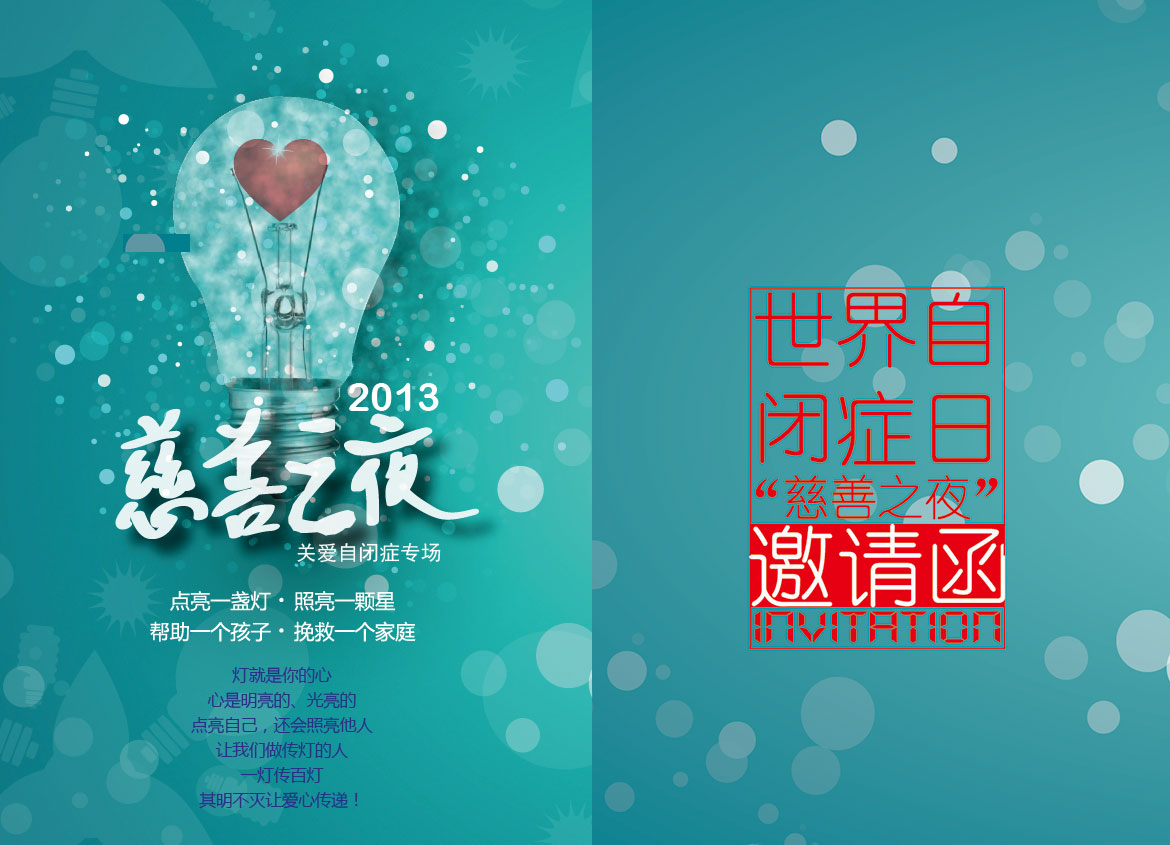
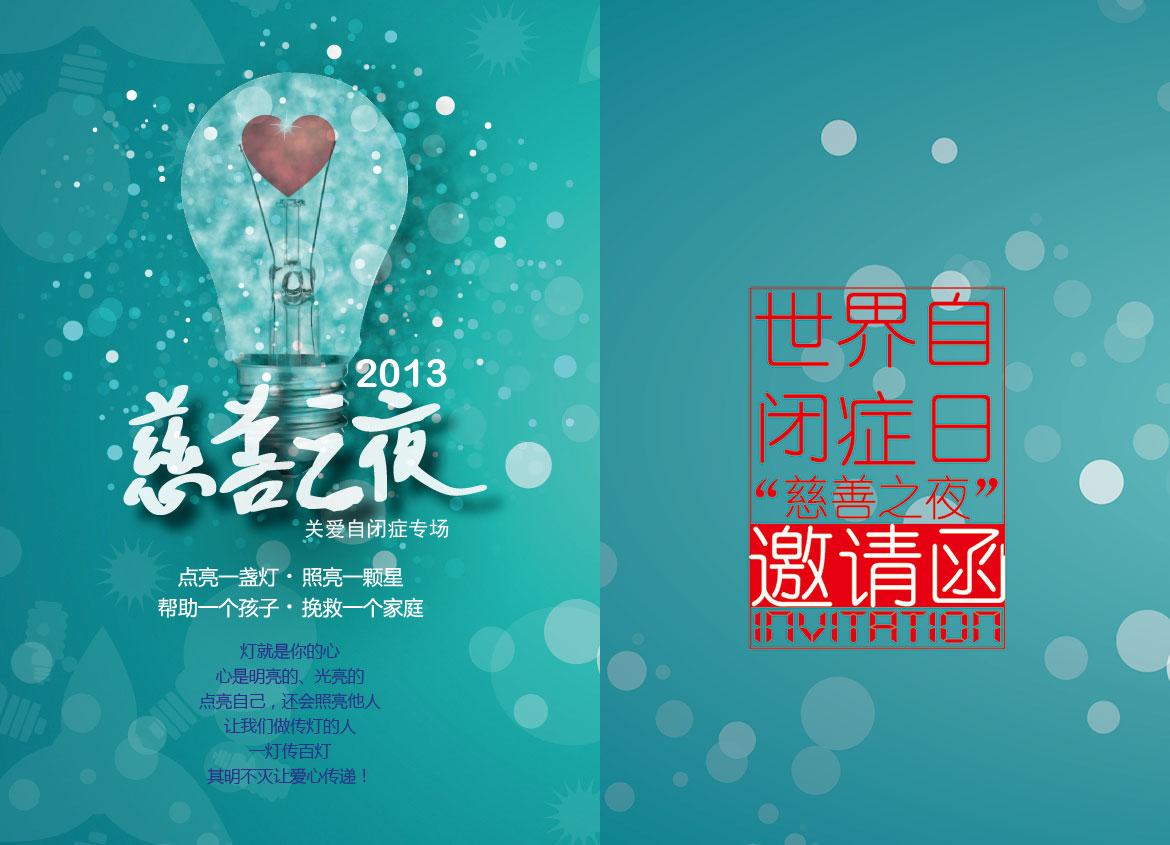
修改logo及背景图片

Changed region(s): [[0.0308, 0.0, 0.5231, 1.0], [0.0, 0.7692, 0.0615, 0.8308]]

diff --git a/public/index.html b/public/index.html
@@ -69,12 +69,10 @@
       <!-- Example row of columns -->
       <div class="row">
         <div class="span4">
-          <h2>自闭症关爱背景</h2>
           <p>自闭症（也称孤独症）是一种通常会伴随终身的复杂的神经生物性障碍疾病。是儿童广泛的发育障碍性疾病，其主要的表现为三大特征：社会交往障碍、言语和非言语的交流障碍、狭隘的兴趣和重复刻板性的行为 </p>
           <p><a class="btn" href="#">了解更多 &raquo;</a></p>
         </div>
         <div class="span4">
-          <h2>会议日程</h2>
           <p>时间:2013年3月31日 19:00-21:00 </p>
           <p>地点:北京汉华国际大酒店(北二环)</p>
           <p>主办：中国关爱自闭症儿童基金会</p>
@@ -82,10 +80,12 @@
           <p><a class="btn" href="#">了解更多 &raquo;</a></p>
         </div>
         <div class="span4">
-          <h2>关于我们</h2>
           <p>Donec sed odio dui. Cras justo odio, dapibus ac facilisis in, egestas eget quam. Vestibulum id ligula porta felis euismod semper. Fusce dapibus, tellus ac cursus commodo, tortor mauris condimentum nibh, ut fermentum massa justo sit amet risus.</p>
           <p><a class="btn" href="#">View details &raquo;</a></p>
         </div>
+      </div>
+      <div class="row">
+        <div class="span12"><img src="/logo.jpg"/></div>
       </div>
 
       <hr>
